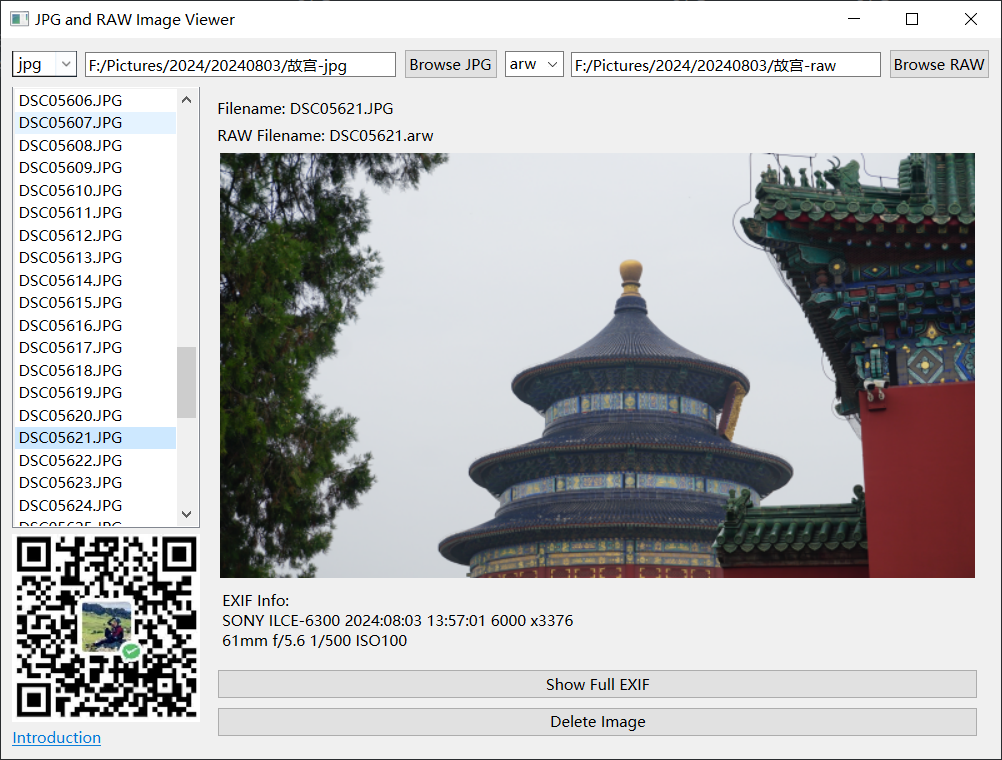
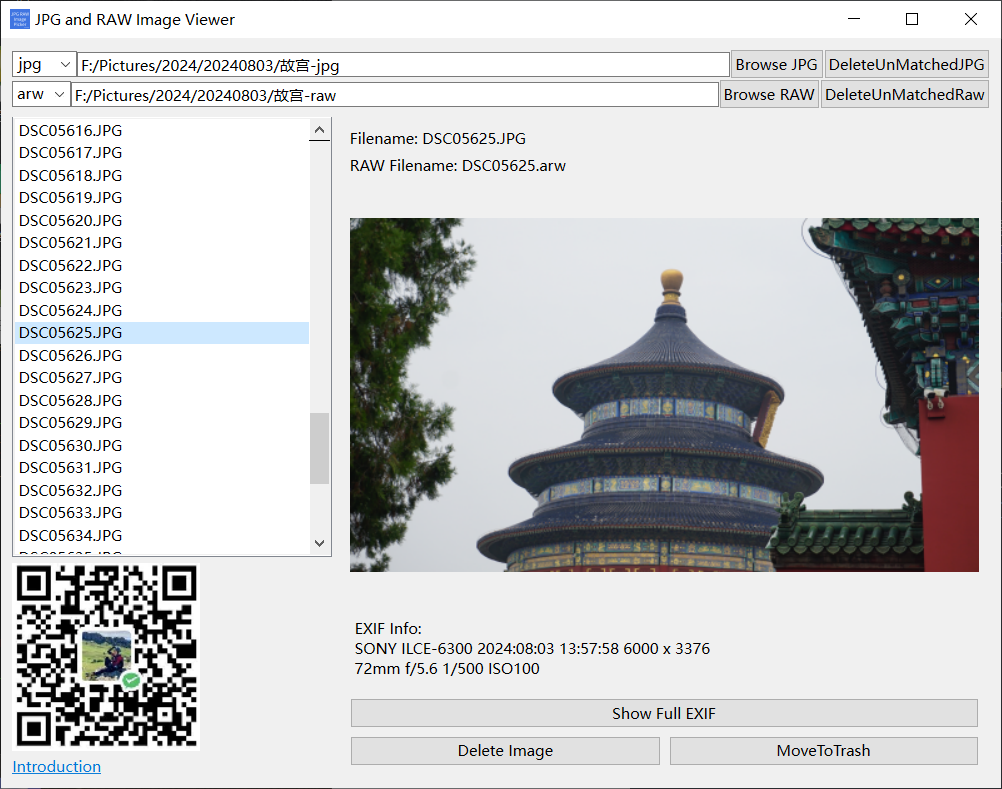
add delete_unmatched_files buttons

diff --git a/main.py b/main.py
@@ -13,6 +13,7 @@ from PyQt6.QtCore import Qt, QSettings
 from PyQt6 import QtGui
 from PIL import Image
 from PIL.ExifTags import TAGS
+from send2trash import send2trash
 
 class ImageViewer(QMainWindow):
     def __init__(self):
@@ -40,9 +41,10 @@ class ImageViewer(QMainWindow):
         main_widget = QWidget()
         self.setCentralWidget(main_widget)
         layout = QVBoxLayout(main_widget)
-
         # 选择目录的操作框
-        dir_layout = QHBoxLayout()
+        dir_layout = QVBoxLayout()
+        jpg_dir_layout = QHBoxLayout()
+        raw_dir_layout = QHBoxLayout()
 
         # JPG后缀选择列表
         self.jpg_ext_list = QComboBox(self)
@@ -68,14 +70,30 @@ class ImageViewer(QMainWindow):
         raw_button = QPushButton("Browse RAW", self)
         raw_button.clicked.connect(self.select_raw_directory)
 
-        dir_layout.addWidget(self.jpg_ext_list)
-        dir_layout.addWidget(self.jpg_dir_input)
-        dir_layout.addWidget(jpg_button)
-        dir_layout.addWidget(self.raw_ext_list)
-        dir_layout.addWidget(self.raw_dir_input)
-        dir_layout.addWidget(raw_button)
+        self.delete_unexist_raw_btn = QPushButton("DeleteUnMatchedRaw", self)
+        self.delete_unexist_raw_btn.clicked.connect(self.delete_unmatched_raws)
+        self.delete_unexist_raw_btn.setToolTip("仅有raw，没有对应的jpg，删除raw")
+        self.delete_unexist_jpg_btn = QPushButton("DeleteUnMatchedJPG", self)
+        self.delete_unexist_jpg_btn.clicked.connect(self.delete_unmatched_jpgs)
+        self.delete_unexist_jpg_btn.setToolTip("仅有jpg，没有对应的raw，删除jpg")
 
+        jpg_dir_layout.addWidget(self.jpg_ext_list)
+        jpg_dir_layout.addWidget(self.jpg_dir_input)
+        jpg_dir_layout.addWidget(jpg_button)
+        jpg_dir_layout.addWidget(self.delete_unexist_jpg_btn)
+
+        raw_dir_layout.addWidget(self.raw_ext_list)
+        raw_dir_layout.addWidget(self.raw_dir_input)
+        raw_dir_layout.addWidget(raw_button)
+        raw_dir_layout.addWidget(self.delete_unexist_raw_btn)
+
+        dir_layout.addLayout(jpg_dir_layout)
+        dir_layout.addLayout(raw_dir_layout)
+        dir_layout.setSpacing(0)
         layout.addLayout(dir_layout)
+
+        # layout.addLayout(jpg_dir_layout)
+        # layout.addLayout(raw_dir_layout)
 
         image_splitter = QSplitter(Qt.Orientation.Horizontal)  # 使用水平分割器
         image_splitter.setMinimumWidth(150)  # 根据需要设置合适的最小宽度
@@ -142,8 +160,18 @@ class ImageViewer(QMainWindow):
         self.exif_table.setHorizontalHeaderLabels(["Property", "Value"])
         self.exif_table.setVisible(False)
 
+        delete_layout = QHBoxLayout()
         self.delete_button = QPushButton("Delete Image", self)
+        self.delete_button.setToolTip("删除当前选择的图片")
         self.delete_button.clicked.connect(self.delete_image)
+
+        self.move_to_trash_button = QPushButton("MoveToTrash", self)
+        self.move_to_trash_button.setToolTip("将所有已删除照片移到垃圾桶")
+        self.move_to_trash_button.clicked.connect(self.move_to_trash)
+
+        delete_layout.addWidget(self.delete_button)
+        delete_layout.addWidget(self.move_to_trash_button)
+
 
         # 修改布局间距
         # self.image_details_layout.setSpacing(10)  # 设置上下组件间距为5像素
@@ -154,7 +182,7 @@ class ImageViewer(QMainWindow):
         self.image_details_layout.addWidget(self.exif_label)
         self.image_details_layout.addWidget(self.toggle_exif_button)
         self.image_details_layout.addWidget(self.exif_table)
-        self.image_details_layout.addWidget(self.delete_button)
+        self.image_details_layout.addLayout(delete_layout)
         # self.image_details_layout.addStretch(1)
         image_details_widget = QWidget()
 
@@ -312,14 +340,17 @@ class ImageViewer(QMainWindow):
         exif_text = "" # "\n".join(f"{key}: {value}" for key, value in basic_info)
         for key, value in basic_info:
             if key == "ExifImageHeight":
-                exif_text += f"x{value}\n"
+                exif_text += f"x {value}\n"
             elif key == "FocalLengthIn35mmFilm":
                 exif_text += f"{value}mm "
             elif key == "FNumber":
                 exif_text += f"f/{value} "
             elif key == "ExposureTime":
-                exposureTime = 1 / value
-                exif_text += f"1/{exposureTime} "
+                if value == "N/A":
+                    exif_text += f"N/A "
+                else:
+                    exposureTime = 1 / value
+                    exif_text += f"1/{exposureTime} "
             elif key == "ISOSpeedRatings":
                 exif_text += f"ISO{value}"
             else:
@@ -379,6 +410,71 @@ class ImageViewer(QMainWindow):
             else:
                 QMessageBox.warning(self, "Error", f"{raw_filename} File does not exist.")
 
+    def delete_unmatched_raws(self):
+        if not self.jpg_dir:
+            QMessageBox.warning(self, "Error", f"jpg dir is not set")
+            pass # 警告
+
+        if not self.raw_dir:
+            QMessageBox.warning(self, "Error", f"raw dir is not set")
+            pass
+        # 获取jpg文件名（不包括扩展名）
+        jpg_files = {os.path.splitext(f)[0] for f in os.listdir(self.jpg_dir) if f.lower().endswith(self.jpg_ext_list.currentText().lower())}
+        to_be_deleted_files = []
+        matched_files_count = 0
+        # 遍历raw目录中的文件，检查是否有匹配的jpg文件
+        for raw_file in os.listdir(self.raw_dir):
+            if raw_file.lower().endswith(self.raw_ext_list.currentText().lower()):
+                raw_filename = os.path.splitext(raw_file)[0]
+                if raw_filename not in jpg_files:
+                    # 没有对应的jpg文件，将raw文件移动到deleted_dir
+                    to_be_deleted_files.append(raw_file)
+                else:
+                    matched_files_count += 1
+
+        message = f"MatchedFiles    : {matched_files_count}\n ToBeDeletedFiles: {len(to_be_deleted_files)}\n DELETE?"
+        reply = QMessageBox.question(self, 'Message',
+           message,
+           QMessageBox.StandardButton.Yes | QMessageBox.StandardButton.No, QMessageBox.StandardButton.No)
+        if reply == QMessageBox.StandardButton.No:
+            return
+
+        for raw_file in to_be_deleted_files:
+            raw_path = os.path.join(self.raw_dir, raw_file)
+            shutil.move(raw_path, self.deleted_dir)
+            # print(f'Moved {raw_file} to {self.deleted_dir}')
+
+    def delete_unmatched_jpgs(self):
+        # 获取raw文件名（不包括扩展名）
+        raw_files = {os.path.splitext(f)[0] for f in os.listdir(self.raw_dir) if f.lower().endswith(self.raw_ext_list.currentText().lower())}
+        
+        to_be_deleted_files = []
+        matched_files_count = 0
+        # 遍历jpg目录中的文件，检查是否有匹配的raw文件
+        for jpg_file in os.listdir(self.jpg_dir):
+            if jpg_file.lower().endswith(self.jpg_ext_list.currentText().lower()):
+                jpg_filename = os.path.splitext(jpg_file)[0]
+                if jpg_filename not in raw_files:
+                    # 没有对应的raw文件，将jpg文件移动到deleted_dir
+                    to_be_deleted_files.append(jpg_file)
+                else:
+                    matched_files_count += 1
+
+        message = f"MatchedFiles    : {matched_files_count}\n ToBeDeletedFiles: {len(to_be_deleted_files)}\n DELETE?"
+        reply = QMessageBox.question(self, 'Message',
+           message,
+           QMessageBox.StandardButton.Yes | QMessageBox.StandardButton.No, QMessageBox.StandardButton.No)
+        if reply == QMessageBox.StandardButton.No:
+            return
+
+        for jpg_file in to_be_deleted_files:
+            raw_path = os.path.join(self.jpg_dir, jpg_file)
+            shutil.move(raw_path, self.deleted_dir)
+            # print(f'Moved {jpg_file} to {self.deleted_dir}')
+
+        self.load_thumbnails()
+
+
     def on_splitter_moved(self, pos, index):
         # pos 是新位置，index 是移动的 widget 的索引
         thumbnail_size = self.thumbnail_list.size()  # 获取缩略图列表的当前尺寸
@@ -390,6 +486,19 @@ class ImageViewer(QMainWindow):
         if current:
             self.show_image(current)  # 使用当前选中的项更新图像
 
+    def move_to_trash(self):
+        normpath = os.path.normpath(self.deleted_dir)
+        message = f"DELETE {normpath} ?"
+        reply = QMessageBox.question(self, 'Message',
+           message,
+           QMessageBox.StandardButton.Yes | QMessageBox.StandardButton.No, QMessageBox.StandardButton.No)
+        if reply == QMessageBox.StandardButton.No:
+            return
+
+        if os.path.exists(normpath):
+            send2trash(normpath)
+        pass
+        
     def closeEvent(self, event):
         self.jpg_dir = self.settings.setValue("jpg_dir", self.jpg_dir)
         self.raw_dir = self.settings.setValue("raw_dir", self.raw_dir)

diff --git a/README.md b/README.md
@@ -1,10 +1,15 @@
 # JPG_RAW_imagePicker
-很多摄影师会同时拍摄raw+jpg两种格式的图片，筛选废片时一般用jpg进行预览，删除jpg时希望也能同时删除对应的raw文件。此软件的基本功能就是完成这件事情的。
+很多摄影师会同时拍摄raw+jpg两种格式的图片，筛选废片时一般用jpg进行预览，删除jpg时希望也能同时删除对应的raw文件。  
+另外，对于双内存卡的摄影师，可能存在删除了jpg，但对应的raw没有删除，或者删除了raw，但对应的jpg没有删除。  
+此软件的基本功能就是完成这些事情的。
 
 ## 使用方法
 1. 设置jpg、raw文件对应的文件后缀，不同相机可能对应不同的后缀。若内置没有，可先手动输入，按Enter键确认，欢迎可留言，后期更新时加上。
 2. 设置jpg、raw文件所在的目录，可通过浏览按钮选择对应目录，也可手动输入，按Enter键确认。
-3. 点击下方 DELETE 按钮或 删除键 删除照片。 删除的照片会先保存在jpg目录下的 deleted_images 文件夹，已避免误删。
+3. 右上角【DeleteUnmatchedJPG】 若jpg图片没有对应的raw文件，则删jpg图片。此按钮会检查jpg文件夹下的所有jpg。
+3. 右上角【DeleteUnmatchedRaw】 若raw文件没有对应的jpg图片，则删raw文件。此按钮会检查raw文件夹下的所有raw。
+4. 下方【DELETE Image】 按钮删除当前选中的照片。 删除的照片会先保存在jpg目录下的 deleted_images 文件夹，以避免误删。快捷键【Backspace-即回退键】
+5. 下方【MoveToTrash】将deleted_imges文件夹删除至电脑垃圾桶，保持jpg目录干净并再次避免误删。
 
 ![main screen](resources/main_screen.PNG)
 
